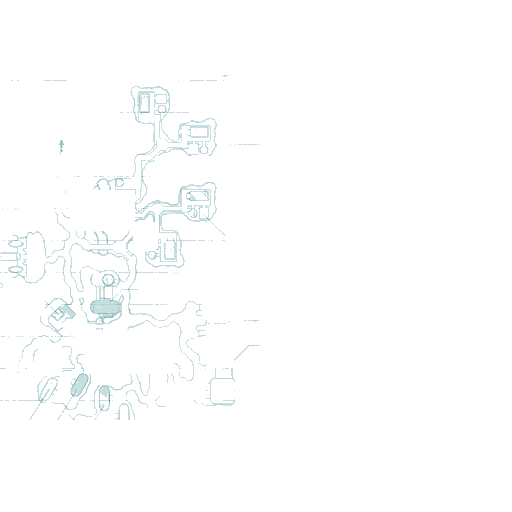
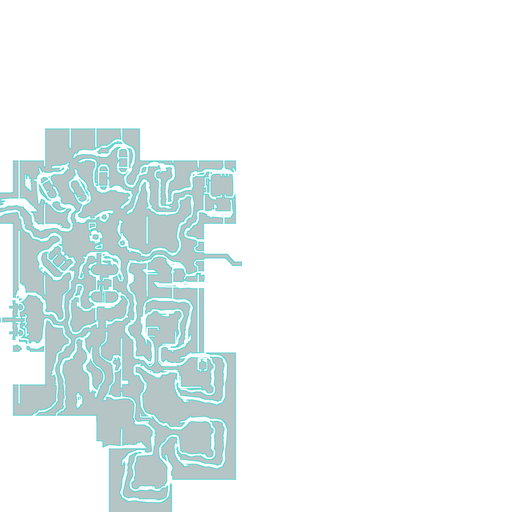
Generate Windurst Woods walkable map

Changed region(s): [[0.0, 0.1562, 0.4688, 1.0]]

diff --git a/tools/generate_walkable_map.py b/tools/generate_walkable_map.py
@@ -1,0 +1,187 @@
+#!/usr/bin/env python3
+"""Generate a transparent walkable-area layer from LandSandBoat geometry.
+
+The OBJ is the authoritative collision-space reference. The Detour navmesh
+selects surfaces considered traversable and supplies a clean polygon union.
+The output uses AshitaMinimap's existing world-to-image calibration.
+"""
+
+from __future__ import annotations
+
+import argparse
+import struct
+from collections import deque
+from pathlib import Path
+
+from PIL import Image, ImageChops, ImageDraw, ImageFilter
+
+
+def parse_args() -> argparse.Namespace:
+    parser = argparse.ArgumentParser()
+    parser.add_argument("obj", type=Path, help="decompressed zone collision OBJ")
+    parser.add_argument("nav", type=Path, help="compiled Detour .nav file")
+    parser.add_argument("output", type=Path, help="output transparent PNG")
+    parser.add_argument("--width", type=int, default=512)
+    parser.add_argument("--height", type=int, default=512)
+    parser.add_argument("--origin-x", type=float, required=True)
+    parser.add_argument("--origin-y", type=float, required=True)
+    parser.add_argument("--pixels-per-yalm", type=float, required=True)
+    parser.add_argument("--supersample", type=int, default=4)
+    parser.add_argument("--minimum-hole-area", type=float, default=18.0)
+    parser.add_argument("--fill-alpha", type=int, default=76)
+    parser.add_argument("--edge-alpha", type=int, default=235)
+    return parser.parse_args()
+
+
+def read_obj_bounds(path: Path) -> tuple[tuple[float, ...], tuple[float, ...]]:
+    minimum = [float("inf")] * 3
+    maximum = [float("-inf")] * 3
+    count = 0
+    with path.open("r", encoding="utf-8") as source:
+        for line in source:
+            if not line.startswith("v "):
+                continue
+            vertex = tuple(map(float, line.split()[1:4]))
+            for axis, value in enumerate(vertex):
+                minimum[axis] = min(minimum[axis], value)
+                maximum[axis] = max(maximum[axis], value)
+            count += 1
+    if not count:
+        raise ValueError(f"{path} contains no OBJ vertices")
+    return tuple(minimum), tuple(maximum)
+
+
+def read_navmesh(
+    path: Path,
+) -> tuple[tuple[float, ...], list[list[tuple[float, ...]]]]:
+    data = path.read_bytes()
+    magic, version, tile_count = struct.unpack_from("<iii", data, 0)
+    if magic != 0x4D534554 or version != 1:
+        raise ValueError(f"{path} is not a supported MSET v1 navmesh")
+
+    nav_origin = struct.unpack_from("<3f", data, 12)
+    offset = 40
+    polygons = []
+    for _ in range(tile_count):
+        _, data_size = struct.unpack_from("<Ii", data, offset)
+        offset += 8
+        tile_offset = offset
+        offset += data_size
+
+        header = struct.unpack_from("<15i3f3f3f3ff", data, tile_offset)
+        polygon_count, vertex_count = header[6], header[7]
+        vertex_offset = tile_offset + 100
+        vertices = [
+            struct.unpack_from("<3f", data, vertex_offset + index * 12)
+            for index in range(vertex_count)
+        ]
+        polygon_offset = vertex_offset + vertex_count * 12
+        for index in range(polygon_count):
+            polygon = struct.unpack_from(
+                "<I6H6HHBB", data, polygon_offset + index * 32
+            )
+            vertex_total = polygon[-2]
+            polygon_type = polygon[-1] & 0xC0
+            if vertex_total >= 3 and not polygon_type:
+                polygons.append(
+                    [vertices[item] for item in polygon[1 : 1 + vertex_total]]
+                )
+    if offset != len(data):
+        raise ValueError(f"{path} has unexpected trailing navmesh data")
+    return nav_origin, polygons
+
+
+def validate_sources(
+    obj_bounds: tuple[tuple[float, ...], tuple[float, ...]],
+    nav_origin: tuple[float, ...],
+) -> None:
+    for axis, (obj_value, nav_value) in enumerate(zip(obj_bounds[0], nav_origin)):
+        if abs(obj_value - nav_value) > 0.01:
+            raise ValueError(
+                f"OBJ/nav axis {axis} differs: {obj_value} versus {nav_value}"
+            )
+
+
+def fill_small_holes(mask: Image.Image, maximum_area: int) -> int:
+    pixels = mask.load()
+    width, height = mask.size
+    visited = bytearray(width * height)
+    filled = 0
+    for start_y in range(height):
+        for start_x in range(width):
+            start = start_y * width + start_x
+            if visited[start] or pixels[start_x, start_y]:
+                continue
+            queue = deque([(start_x, start_y)])
+            visited[start] = 1
+            component = []
+            touches_edge = False
+            while queue:
+                x, y = queue.popleft()
+                component.append((x, y))
+                touches_edge |= x in (0, width - 1) or y in (0, height - 1)
+                for next_x, next_y in (
+                    (x - 1, y),
+                    (x + 1, y),
+                    (x, y - 1),
+                    (x, y + 1),
+                ):
+                    if not (0 <= next_x < width and 0 <= next_y < height):
+                        continue
+                    item = next_y * width + next_x
+                    if visited[item] or pixels[next_x, next_y]:
+                        continue
+                    visited[item] = 1
+                    queue.append((next_x, next_y))
+            if not touches_edge and len(component) < maximum_area:
+                for x, y in component:
+                    pixels[x, y] = 255
+                filled += 1
+    return filled
+
+
+def main() -> None:
+    args = parse_args()
+    if args.supersample < 1:
+        raise ValueError("--supersample must be at least 1")
+
+    obj_bounds = read_obj_bounds(args.obj)
+    nav_origin, polygons = read_navmesh(args.nav)
+    validate_sources(obj_bounds, nav_origin)
+
+    scale = args.supersample
+    mask = Image.new("L", (args.width * scale, args.height * scale), 0)
+    draw = ImageDraw.Draw(mask)
+    for polygon in polygons:
+        draw.polygon(
+            [
+                (
+                    (args.origin_x + vertex[0] * args.pixels_per_yalm) * scale,
+                    (args.origin_y - vertex[2] * args.pixels_per_yalm) * scale,
+                )
+                for vertex in polygon
+            ],
+            fill=255,
+        )
+
+    # Seal raster-only subpixel seams without materially expanding geometry.
+    mask = mask.filter(ImageFilter.MaxFilter(3)).filter(ImageFilter.MinFilter(3))
+    maximum_hole_area = round(args.minimum_hole_area * scale * scale)
+    holes_filled = fill_small_holes(mask, maximum_hole_area)
+
+    edge_width = max(3, scale * 2 - 1)
+    edge = ImageChops.subtract(mask, mask.filter(ImageFilter.MinFilter(edge_width)))
+    output = Image.new("RGBA", mask.size, (0, 0, 0, 0))
+    output.paste((8, 56, 62, args.fill_alpha), mask=mask)
+    output.paste((64, 211, 205, args.edge_alpha), mask=edge)
+    output = output.resize((args.width, args.height), Image.Resampling.LANCZOS)
+    args.output.parent.mkdir(parents=True, exist_ok=True)
+    output.save(args.output)
+    print(
+        f"wrote {args.output}: {len(polygons)} walkable polygons, "
+        f"{holes_filled} small holes removed"
+    )
+
+
+if __name__ == "__main__":
+    main()

diff --git a/README.md b/README.md
@@ -82,12 +82,13 @@ The renderer draws map content in this order:
 6. live entities and player arrow;
 7. coordinate badge and unlocked-state hint.
 
-Windurst Woods is the first production dark-tactical map. Its navigation
-structure, place names, and static landmark symbols are separate layers
-generated from immutable vanilla-derived masks. All three share the same
-verified origin and scale. Metalworks has separate structure and annotation
-layers. South Gustaberg and Port Bastok still use flattened prototype assets,
-so their embedded labels cannot yet be hidden independently.
+Windurst Woods is the first production dark-tactical map. Its structure is a
+filled walkable-area mask generated from collision geometry plus Detour
+traversability data; the background is truly transparent. Place names and
+static landmark symbols remain separate optional overlays. All three share the
+same verified origin and scale. Metalworks has separate structure and
+annotation layers. South Gustaberg and Port Bastok still use flattened
+prototype assets, so their embedded labels cannot yet be hidden independently.
 
 Map calibration lives in `ashitaminimap_maps.lua`. The image and world coordinate
 systems are related by:
@@ -109,12 +110,11 @@ tuning.
 
 ## Map asset status
 
-Metalworks and Windurst Woods use exact vanilla DAT pixels as their geometry
-source. Metalworks is horizontally unwrapped. Windurst Woods uses its original
-no-wrap page layout and applies a deterministic dark-tactical style with teal
-structure lines, warm place labels, and amber landmark symbols. Styling adds a
-core-only color treatment that does not widen, replace, or move the source
-navigation pixels.
+Metalworks uses exact vanilla DAT pixels as its geometry source and is
+horizontally unwrapped. Windurst Woods instead uses LandSandBoat collision and
+navigation geometry to render only the accessible-area fill and its boundaries.
+Its warm place labels and amber landmark symbols are independent optional
+vanilla-derived layers.
 The South Gustaberg and Port Bastok images remain flattened transparency and
 calibration prototypes generated from locally installed reference maps. They
 are not yet precision-traced walkable-area masks.

diff --git a/assets/maps/241.md b/assets/maps/241.md
@@ -1,5 +1,29 @@
 # Windurst Woods map provenance
 
+## Walkable structure (current)
+
+`241_structure.png` is generated from LandSandBoat's explicit
+`Windurst_Woods.obj` collision geometry and matching compiled Detour navmesh.
+The OBJ is the coordinate-space reference; the navmesh selects traversable
+polygons so flat but inaccessible collision surfaces, such as roofs, are not
+shown as playable.
+
+```text
+python tools/generate_walkable_map.py \
+  <xiNavmeshOBJs>/obj/Windurst_Woods.obj \
+  <xiNavmeshes>/Windurst_Woods.nav \
+  assets/maps/241_structure.png \
+  --origin-x 108.5 \
+  --origin-y 288.0 \
+  --pixels-per-yalm 0.80
+```
+
+The generator validates that both sources share an origin, projects the
+walkable polygon union through the verified calibration, removes only tiny
+obstacle holes, and leaves true transparency outside the accessible fill.
+Labels and landmarks remain independent optional overlays. See
+`THIRD_PARTY_NOTICES.md` for source revisions and licensing.
+
 ## Source
 
 - Zone: Windurst Woods (`241`)
@@ -12,17 +36,17 @@ The source was decoded directly with `tools/generate_vanilla_map.py`. The
 navigation and annotation layers retain identical source dimensions and pixel
 coordinates.
 
-## Production layers
+## Legacy vanilla annotation layers
 
-Windurst Woods is the dark-tactical production reference:
+The optional annotation source retains the original vanilla pixel coordinates:
 
-- `241_structure_source.png` and `241_labels_source.png` preserve the
-  vanilla-derived alpha coordinates.
-- `241_structure.png` renders calibrated geometry in desaturated tactical teal.
+- `241_structure_source.png` preserves the former vanilla linework for
+  provenance and rollback; it is not displayed by the current map.
+- `241_labels_source.png` preserves the vanilla-derived annotation alpha.
 - `241_labels.png` renders place and exit text in warm sand.
 - `241_landmarks.png` renders static service and landmark symbols in amber.
 
-The visible files are generated with:
+The optional annotation files were generated with:
 
 ```text
 python tools/style_dark_tactical_layers.py \

diff --git a/assets/maps/README.md b/assets/maps/README.md
@@ -6,9 +6,9 @@ Files are named by FFXI zone ID.
 - `236.png` — Port Bastok
 - `237_structure.png` — Metalworks calibrated geometry
 - `237_labels.png` — Metalworks labels and map annotations
-- `241_structure_source.png` — Windurst Woods immutable geometry mask
+- `241_structure_source.png` — legacy Windurst Woods vanilla geometry mask
 - `241_labels_source.png` — Windurst Woods immutable annotation mask
-- `241_structure.png` — Windurst Woods dark-tactical geometry
+- `241_structure.png` — Windurst Woods walkable-area mask
 - `241_labels.png` — Windurst Woods place and exit labels
 - `241_landmarks.png` — Windurst Woods service and landmark symbols
 
@@ -17,10 +17,11 @@ invisible because AshitaMinimap draws the PNG directly through Direct3D instead
 of asking the stock minimap DLL to render it.
 
 Metalworks remains a linework-focused transparency prototype. Windurst Woods is
-the production reference: `tools/style_dark_tactical_layers.py` generates its
-visible structure, label, and landmark layers from the immutable source masks.
-Every generated layer has identical dimensions, origin, and world scale.
+the production reference: `tools/generate_walkable_map.py` projects verified
+collision/navigation data into a filled accessible-area layer. Labels and
+landmarks remain optional vanilla-derived overlays. Every layer has identical
+dimensions, origin, and world scale.
 
-The assets are intentionally not filled walkable-area masks. The vanilla source
-does not encode a trustworthy closed walkability polygon, so adding one by
-visual inference would weaken map precision.
+Windurst Woods is transparent everywhere outside the walkable polygon union.
+Small collision details are intentionally suppressed; larger holes and
+boundaries remain visible because they can constrain player movement.

diff --git a/docs/MAP_CALIBRATION.md b/docs/MAP_CALIBRATION.md
@@ -71,9 +71,12 @@ separate structure, label, and landmark layers when the source permits it.
    apply a horizontal wrap offset.
 3. Unwrap and crop once. Record every offset. Apply the identical operation to
    every derived layer.
-4. Split structure from labels with `tools/split_map_layers.py`, then split
-   known static landmark symbols from ordinary text. The outputs must have
-   identical dimensions and pixel coordinates.
+4. Prefer collision OBJ geometry for a new walkable-area structure. Use the
+   matching Detour navmesh to exclude flat but unreachable collision surfaces
+   such as roofs. If geometry is unavailable, split structure from labels with
+   `tools/split_map_layers.py`, then split known static landmark symbols from
+   ordinary text. Every output must have identical dimensions and pixel
+   coordinates.
 5. Obtain the map's scale metadata. For known vanilla maps,
    `grid_yalms = map_scale_byte * 10`. Store the result per map; do not use a
    repository-wide default as calibration.
@@ -145,8 +148,9 @@ adding the map. That provenance is part of the map asset.
 
 ## Current automation boundary
 
-The repository currently provides deterministic DAT decoding and layer
-splitting, but it does not yet extract every calibration field automatically.
+The repository provides deterministic DAT decoding and layer splitting plus a
+collision/navmesh walkable-mask generator. It does not yet extract every
+calibration field automatically.
 Until an importer generates the complete map entry, deriving and validating the
 per-map metadata remains a required import step.
 

diff --git a/AGENTS.md b/AGENTS.md
@@ -5,9 +5,12 @@
 Read `docs/MAP_CALIBRATION.md` before adding, replacing, cropping, splitting, or
 recalibrating a map.
 
-- Navigation geometry must come from the vanilla DAT or another deterministic,
-  verified source. Never use AI-generated or visually traced artwork for
-  navigation geometry.
+- Prefer a zone's intermediate collision OBJ plus matching Detour navmesh for
+  accessible-area geometry. The OBJ preserves explicit triangles; the navmesh
+  excludes flat but unreachable surfaces such as roofs. If those sources are
+  unavailable, navigation geometry must come from the vanilla DAT or another
+  deterministic, verified source. Never use AI-generated or visually traced
+  artwork for navigation geometry.
 - Keep structure and labels as separate, identically sized layers whenever the
   source permits it. Both layers must use exactly the same crop, wrap, origin,
   and scale.
@@ -22,4 +25,3 @@ recalibrating a map.
   geometry, the player marker, and entity markers before calling a map precise.
 - Preserve the user's installed `ashitaminimap_config.lua` when syncing addon
   updates into the game installation.
-

diff --git a/THIRD_PARTY_NOTICES.md b/THIRD_PARTY_NOTICES.md
@@ -1,0 +1,19 @@
+# Third-party map geometry
+
+The Windurst Woods walkable-area layer is generated from:
+
+- LandSandBoat `xiNavmeshOBJs`, `Windurst_Woods.obj`, source commit
+  `694970ce54a4fb53b69db52b8375c605686bc350`, licensed GPL-3.0.
+- LandSandBoat `xiNavmeshes`, `Windurst_Woods.nav`, source commit
+  `d5de48de84868bde744e4864768a611e5aad82b0`, used to select traversable
+  polygons from the collision coordinate space, licensed GPL-2.0.
+
+The upstream repositories are:
+
+- <https://github.com/LandSandBoat/xiNavmeshOBJs>
+- <https://github.com/LandSandBoat/xiNavmeshes>
+
+The generated PNG is a modified visualization: it projects the source geometry
+into AshitaMinimap's calibrated coordinate space, unions walkable polygons,
+removes only sub-threshold obstacle holes, and applies the dark-tactical
+palette. It is not an upstream LandSandBoat asset.
